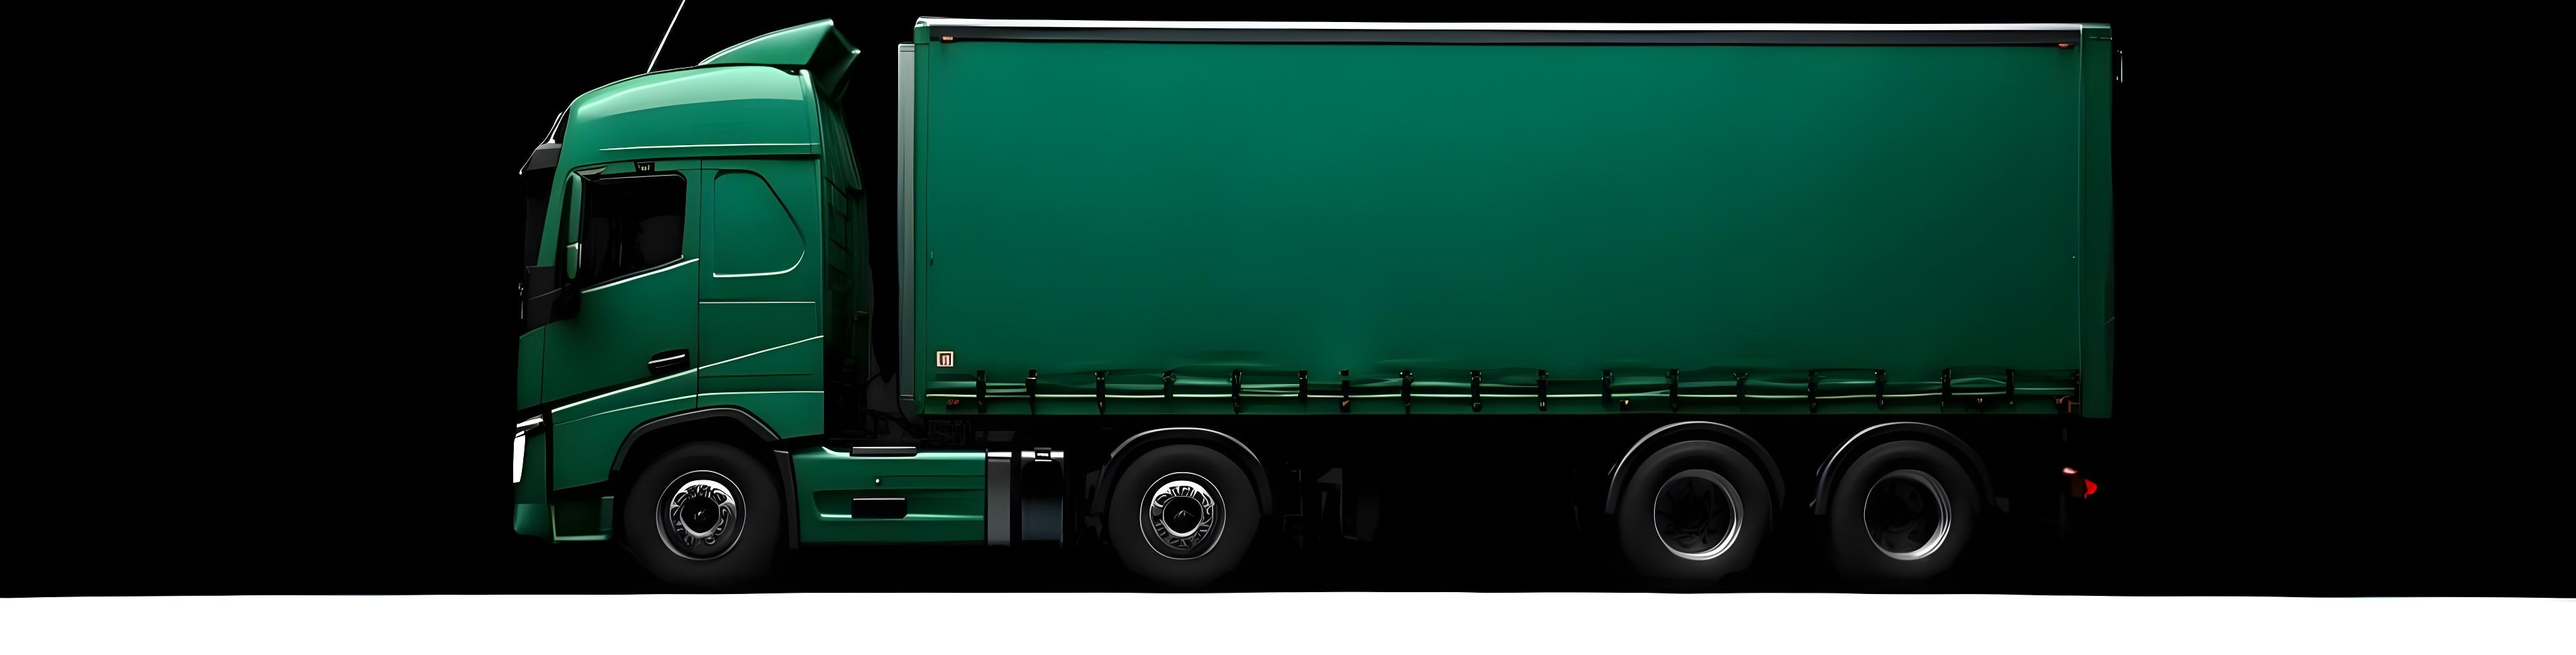
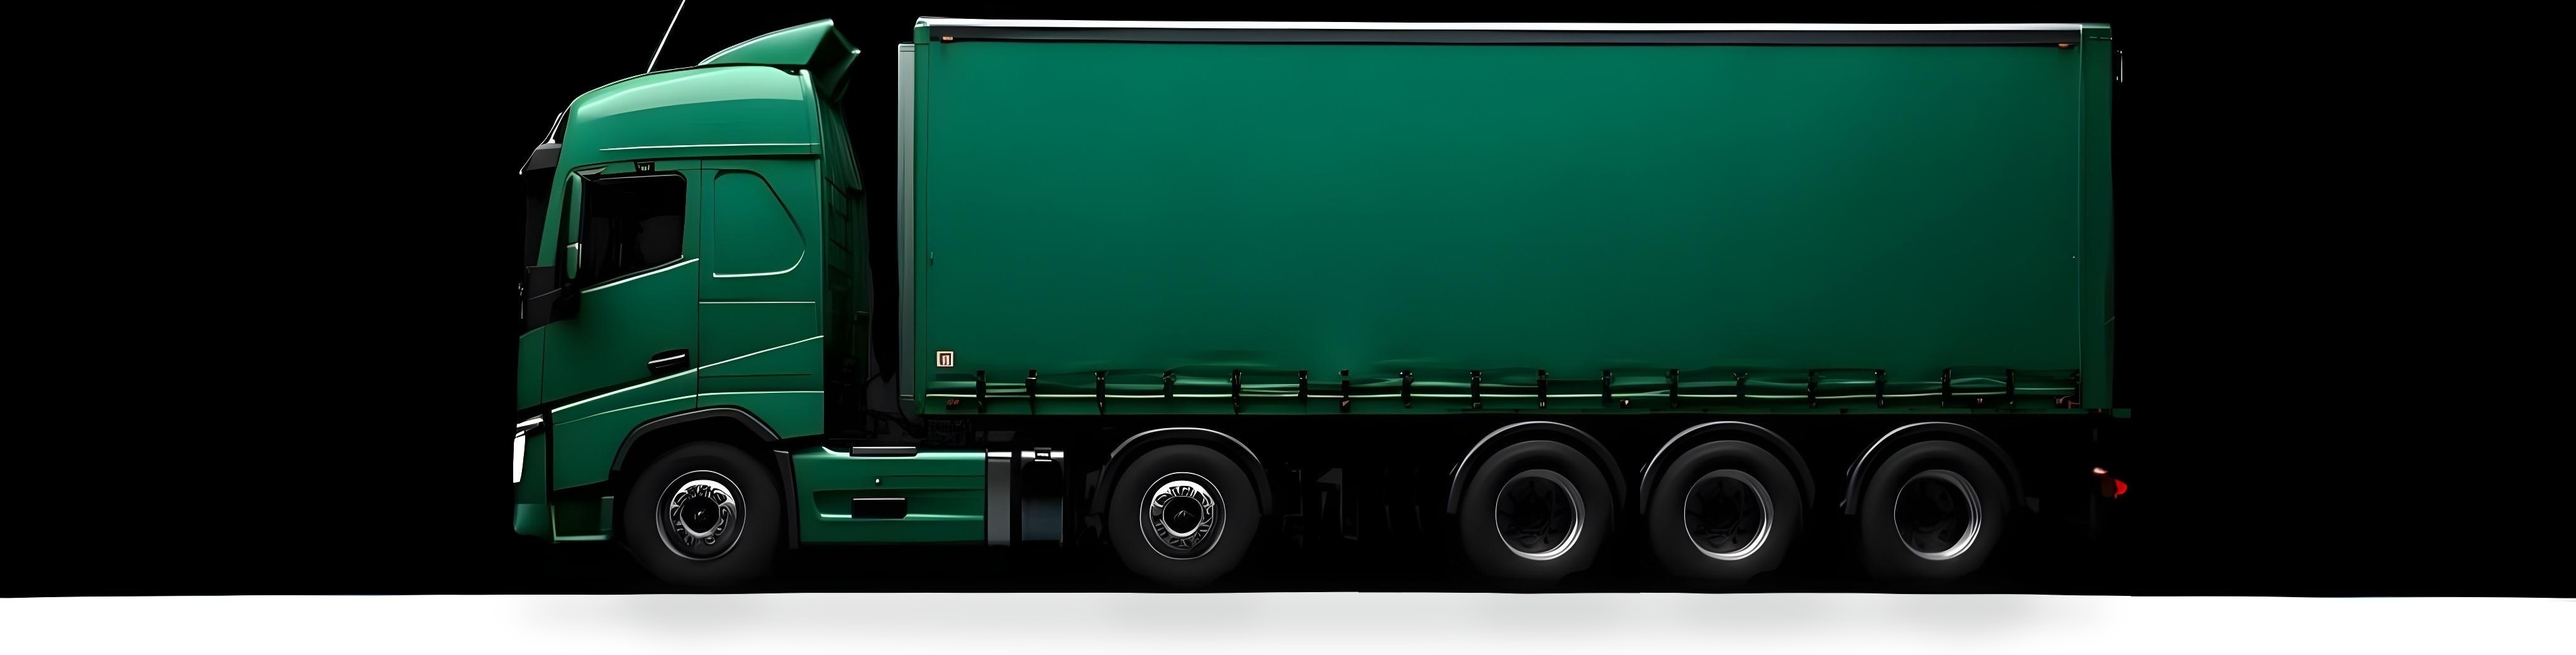
Header/footer, cargo img.

Changed region(s): [[0.2188, 0.6142, 0.8438, 0.9827], [0.8125, 0.6142, 0.8438, 0.6449]]

diff --git a/components/Footer.vue b/components/Footer.vue
@@ -41,6 +41,12 @@
               <i
                 class="fa-brands fa-whatsapp text-white text-lg w-6 h-6 flex-center" />
             </a>
+            <a
+              href="https://www.instagram.com/autrona_logistics/"
+              target="_blank">
+              <i
+                class="fa-brands fa-instagram text-white text-lg w-6 h-6 flex-center" />
+            </a>
           </div>
           <div class="hidden gap-4 items-center links md:flex">
             <a href="mailto:info@autrona.lt">
@@ -60,6 +66,12 @@
             <a href="tel:%2B37065095557">
               <i
                 class="fa-brands fa-whatsapp text-white text-lg w-6 h-6 flex-center" />
+            </a>
+            <a
+              href="https://www.instagram.com/autrona_logistics/"
+              target="_blank">
+              <i
+                class="fa-brands fa-instagram text-white text-lg w-6 h-6 flex-center" />
             </a>
           </div>
         </div>

diff --git a/components/Header.vue b/components/Header.vue
@@ -32,6 +32,11 @@
               target="_blank">
               <i class="fa-brands fa-whatsapp text-lg w-6 h-6 flex-center"></i>
             </a>
+            <a
+              href="https://www.instagram.com/autrona_logistics/"
+              target="_blank">
+              <i class="fa-brands fa-instagram text-lg w-6 h-6 flex-center"></i>
+            </a>
           </div>
         </div>
       </Content>
@@ -117,6 +122,14 @@
             class="flex items-center">
             <i class="fa-brands fa-whatsapp text-lg w-8" />
             WhatsApp
+          </a>
+          <hr />
+          <a
+            href="https://www.instagram.com/autrona_logistics/"
+            target="_blank"
+            class="flex items-center">
+            <i class="fa-brands fa-instagram text-lg w-8" />
+            Instagram
           </a>
           <hr />
           <div class="lang-select flex items-center">

diff --git a/README.md b/README.md
@@ -1,0 +1,36 @@
+# Autrona
+
+Autrona – tarptautinių pervežimų įmonės svetainė ([autrona.lt](https://autrona.lt/)), sukurta su [Nuxt 3](https://nuxt.com/).
+
+Svetainė palaiko tris kalbas (LT, EN, RU) – vertimai laikomi `locales/` aplanke.
+
+## Vietinis paleidimas
+
+```bash
+yarn install
+yarn dev
+```
+
+Svetainė bus pasiekiama adresu [http://localhost:6636](http://localhost:6636).
+
+## Svetainės atnaujinimas
+
+Svetainė talpinama [IV.lt](https://klientams.iv.lt/) serveryje kaip statiniai failai.
+
+1. Sugeneruojame statinę svetainės versiją:
+
+   ```bash
+   npx nuxi generate
+   ```
+
+   Rezultatai atsiranda `.output/public/` aplanke.
+
+2. Prisijungiame prie [IV.lt klientų paskyros](https://klientams.iv.lt/?command=signin).
+   Prisijungimo duomenys saugomi atskirai (ne repozitorijoje). Prisijungiant reikės PIN kodo, kurį gauna Justas.
+3. Einame į **Ataskaitos → Talpinimas** ir pasirenkame **autrona.lt**.
+4. Spaudžiame **Serverio valdymo pultas → File Manager**.
+5. `.output/public/` turinį įkeliame į `public_html` aplanką.
+
+## Repozitorija
+
+[github.com/denisjankelaic/autrona-nuxt](https://github.com/denisjankelaic/autrona-nuxt)
